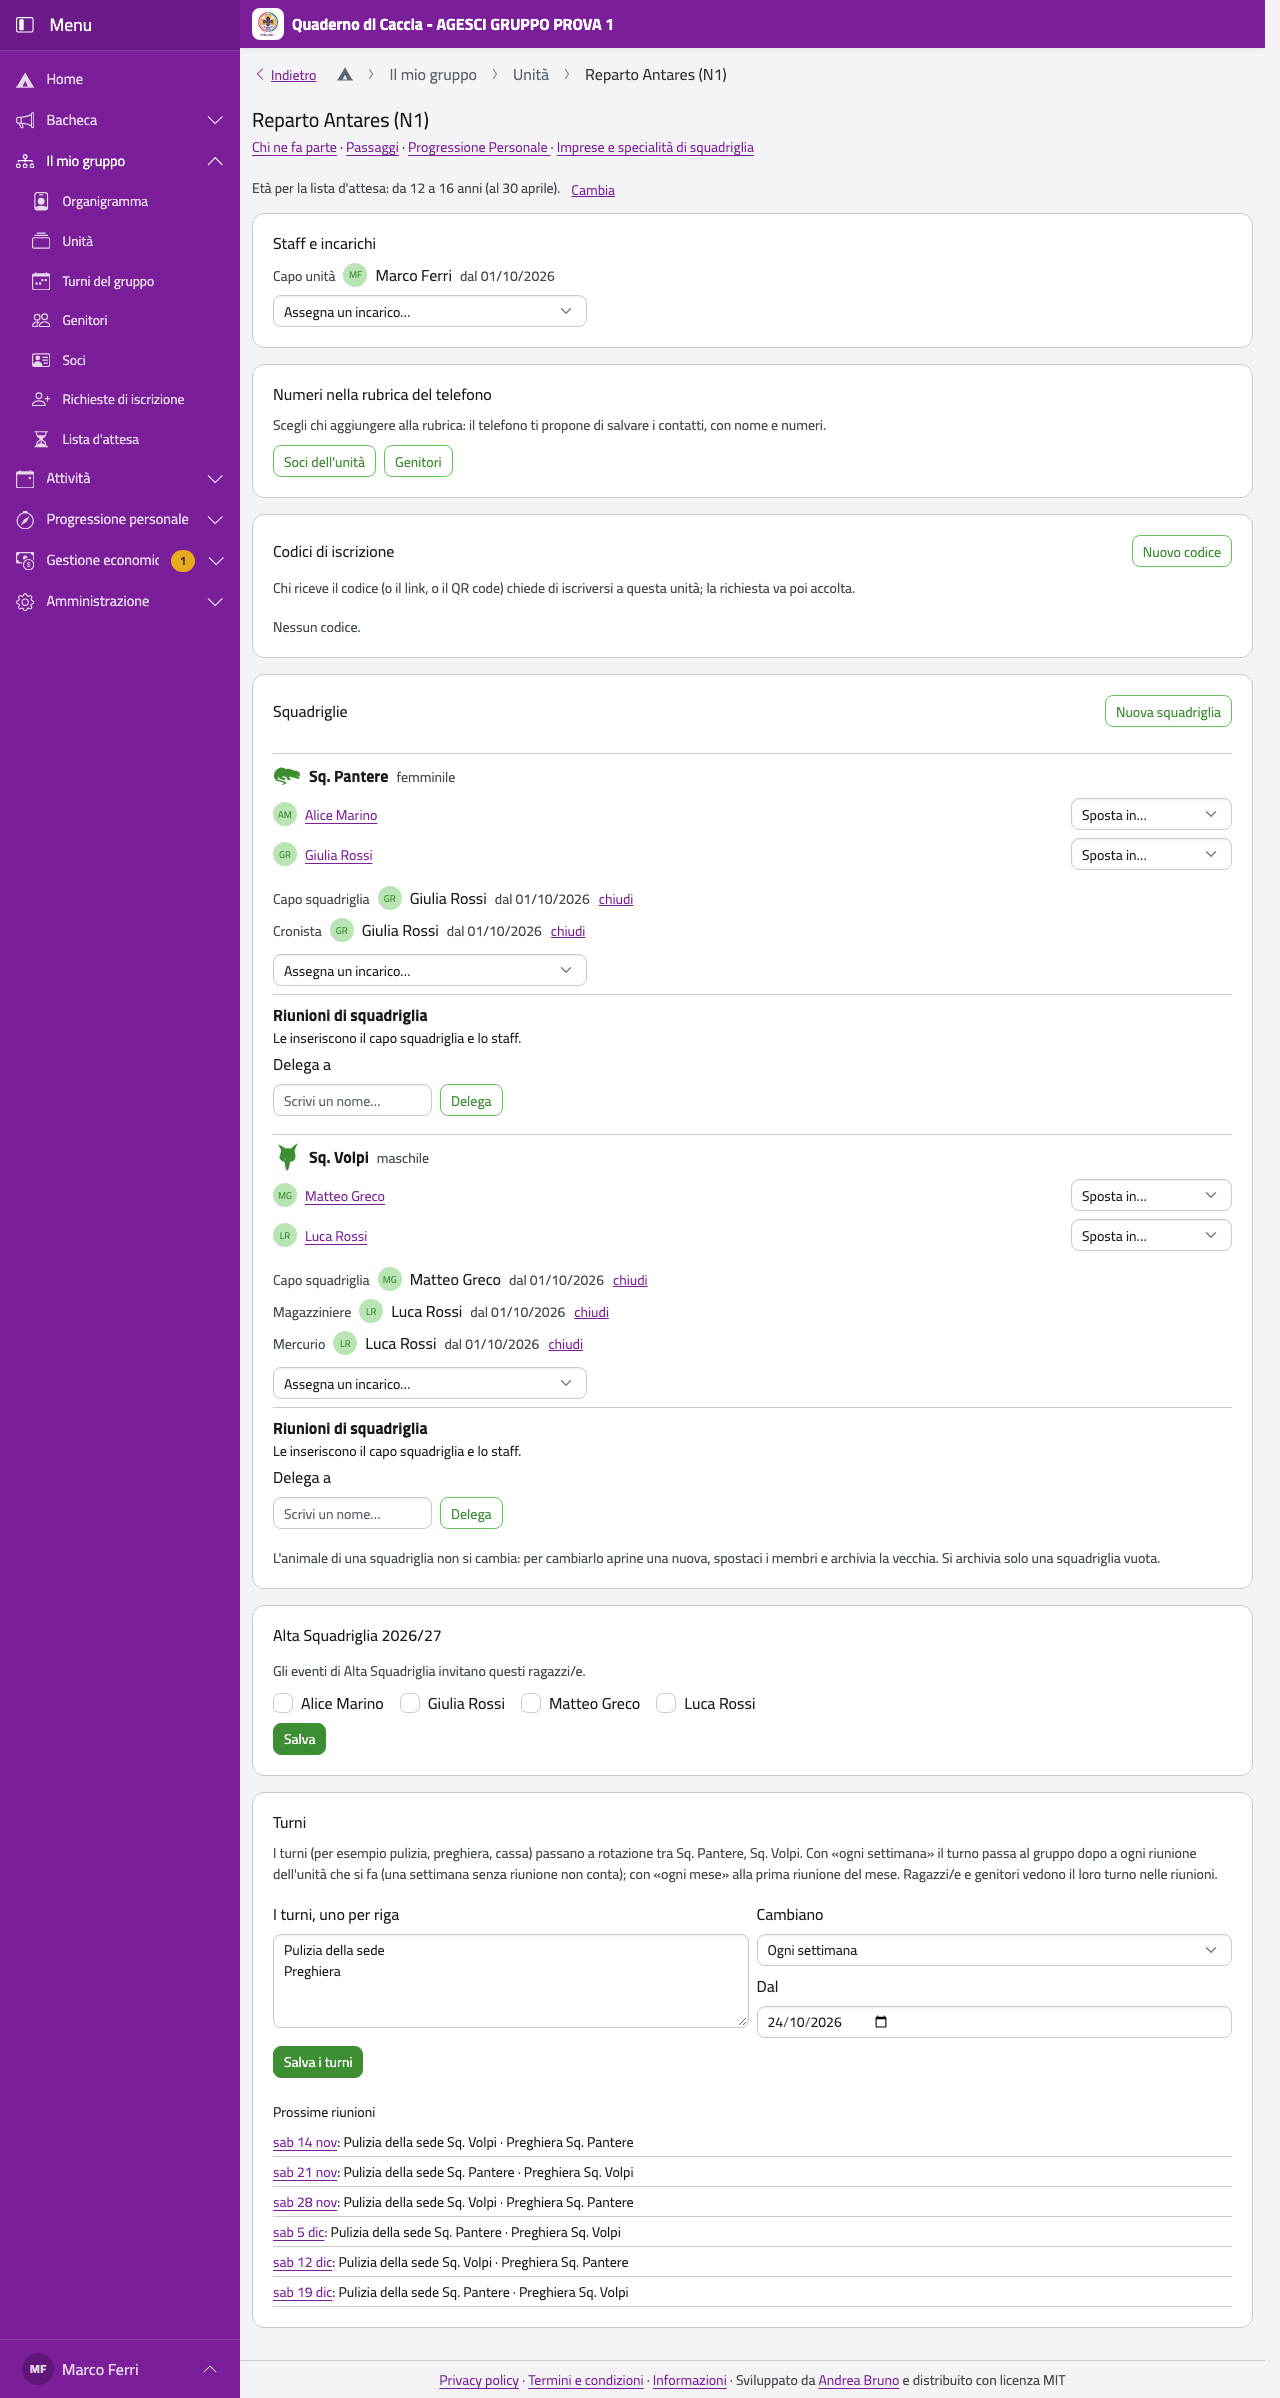
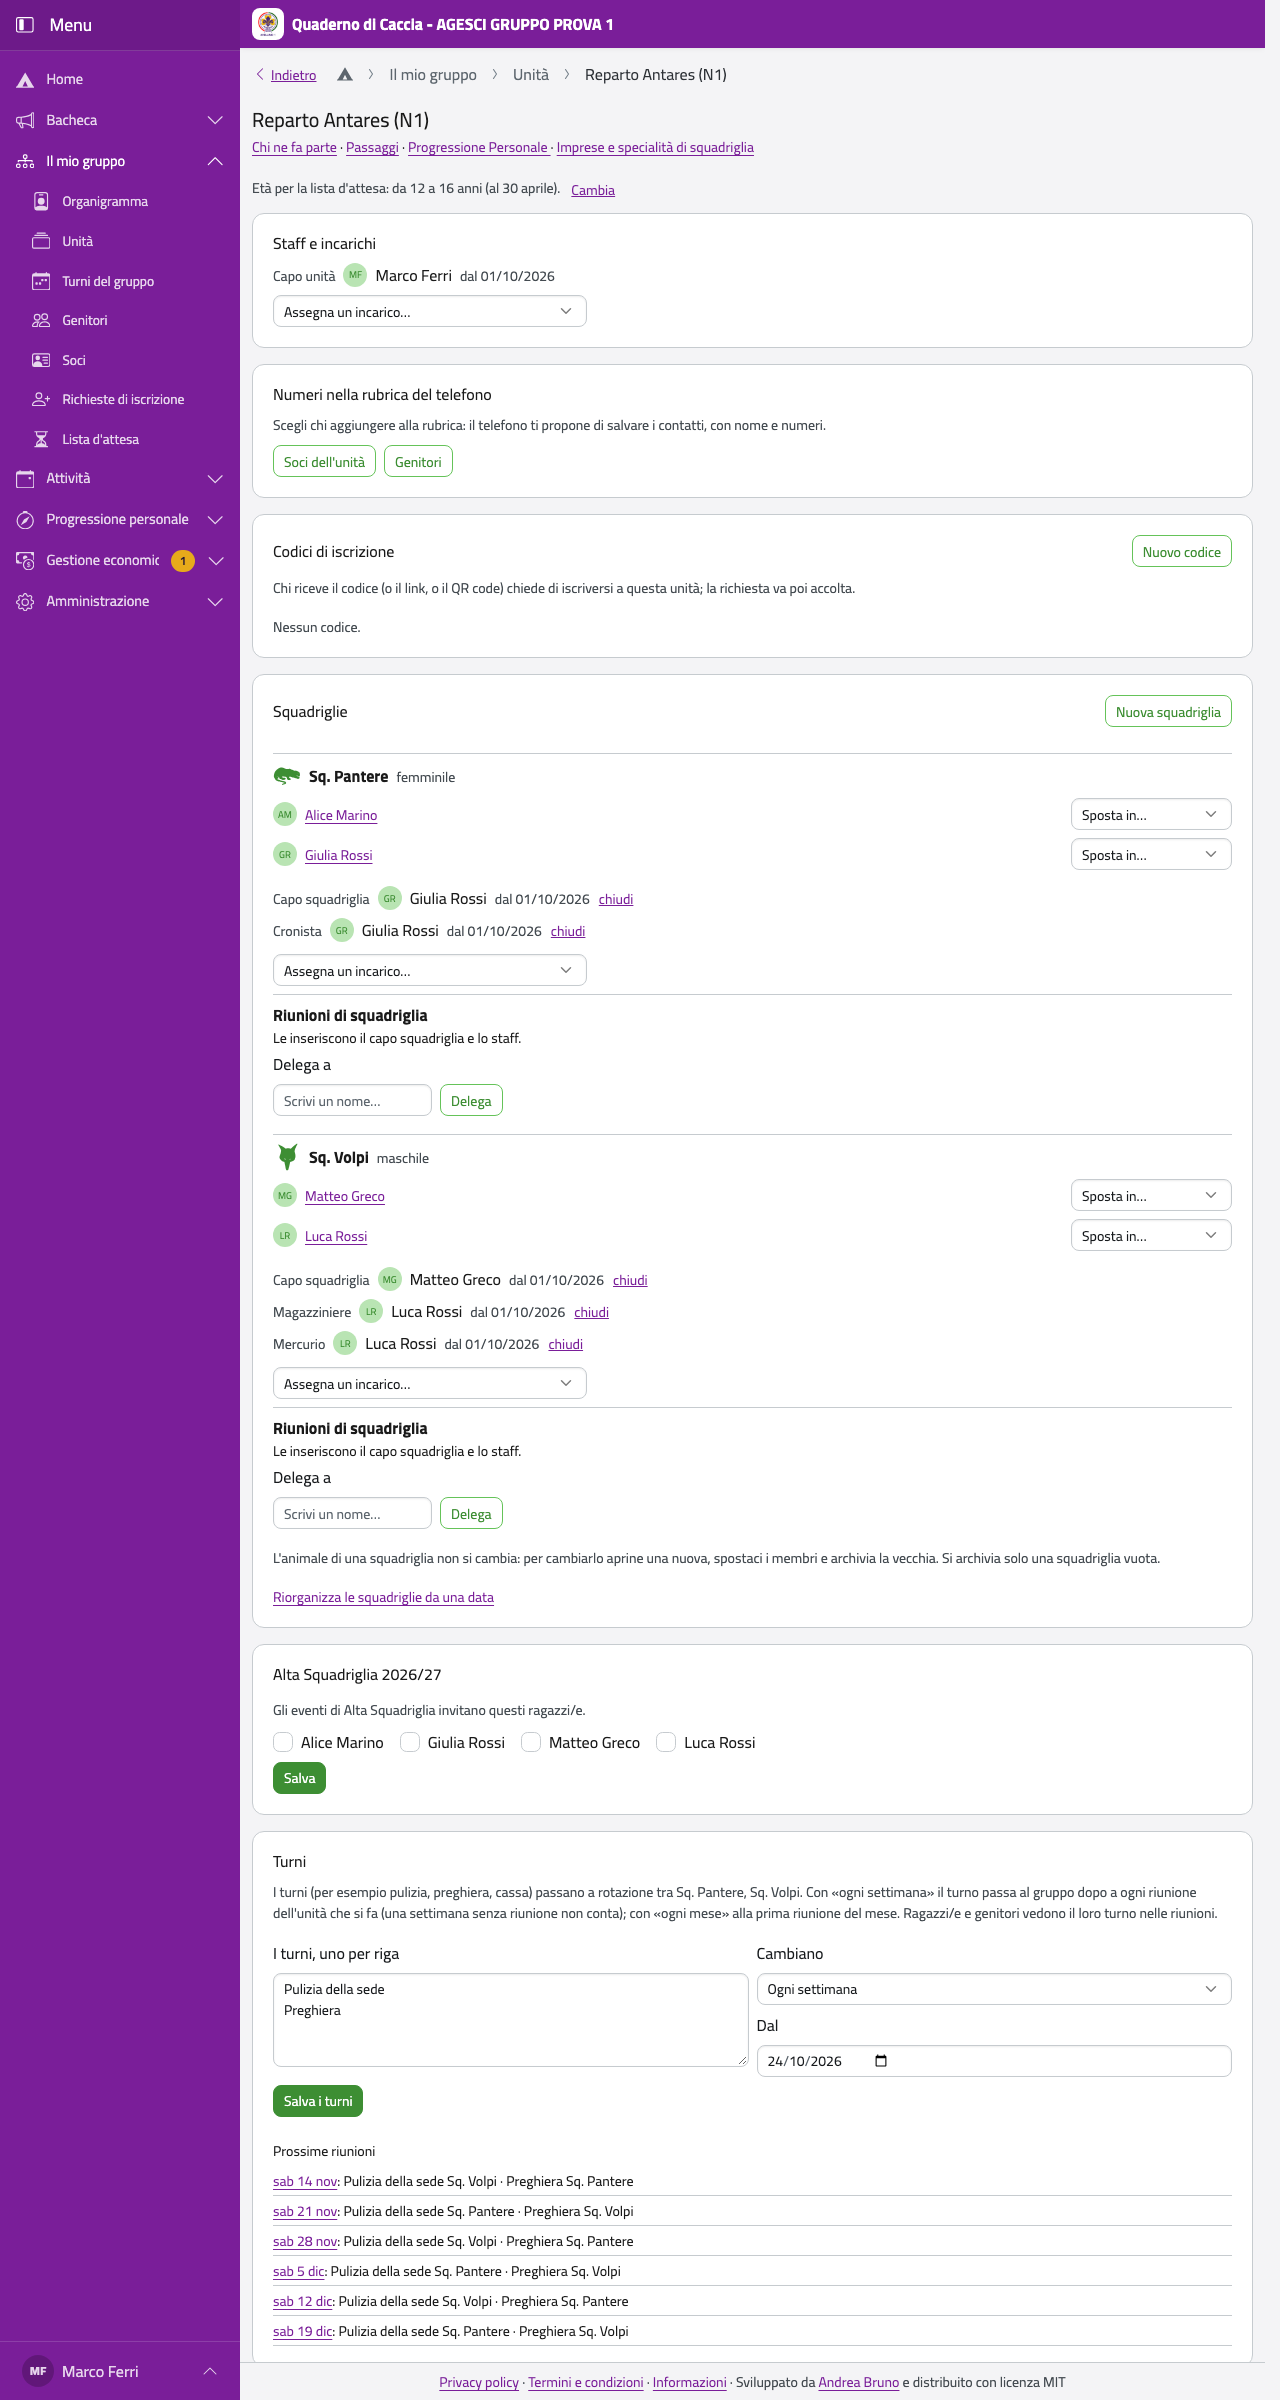
Version 1.30.0
Claude-Session: https://claude.ai/code/session_01FnZgpcJooBVEmvgDLvmkQq

diff --git a/CHANGELOG.md b/CHANGELOG.md
@@ -5,6 +5,34 @@ versione installata e quella nuova prima di chiedere se aggiornare. Il dettaglio
 versione, con il manuale in PDF, è nella pagina
 [Releases](https://github.com/AGESCI-Avellino-1/quaderno-di-caccia/releases).
 
+## 1.30.0 — 14 novembre 2026
+
+### Novità
+
+**Riorganizzazione delle squadriglie da una data** ([#75](https://github.com/AGESCI-Avellino-1/quaderno-di-caccia/issues/75)): dalla pagina del reparto, **Riorganizza le squadriglie da una data** prepara una bozza di come saranno le squadriglie, per esempio dall'apertura, senza toccare quelle di oggi: squadriglie nuove, spostamenti (anche nel reparto collegato, nel rispetto dei sessi), capo e vice di ogni squadriglia. **Da controllare** dice cosa è cambiato nel frattempo. Dal giorno scelto uno dello staff, o un capogruppo, la applica: gli spostamenti valgono da quel giorno, cambiano capi e vice, le squadriglie rimaste vuote vengono archiviate. Un'applicazione per errore si annulla, finché nessuno ha cambiato squadriglie, membri o incarichi. Lo staff può mostrarla ai futuri capi squadriglia, che la leggono in **Le squadriglie future**.
+
+**Squadriglia senza animale, lo sceglie il capo squadriglia** ([#73](https://github.com/AGESCI-Avellino-1/quaderno-di-caccia/issues/73)): una squadriglia nuova si può creare senza animale: si chiama «Nuova Squadriglia 1» finché il suo capo squadriglia non sceglie l'animale da **La mia squadriglia**, una volta sola. Lo staff riceve un'email e una notifica e, se c'è un errore, lo corregge entro un mese.
+
+### Correzioni
+
+**Notifiche** ([#74](https://github.com/AGESCI-Avellino-1/quaderno-di-caccia/issues/74)): toccando una notifica con l'app aperta in background, dopo lo sblocco con PIN o Face ID si va alla pagina della notifica e non più all'ultima pagina vista.
+
+**Pagina Informazioni** ([#76](https://github.com/AGESCI-Avellino-1/quaderno-di-caccia/issues/76)): su iPhone con iOS 26 o successivo mostrava una versione di iOS sbagliata (per esempio 18.7 invece di 27.2).
+
+### Aggiornare
+
+```bash
+scripts/aggiorna.sh v1.30.0
+```
+
+L'aggiornamento migra il database; le squadriglie di oggi non cambiano.
+
+### Documentazione
+
+Il capitolo sull'unità spiega la riorganizzazione delle squadriglie e le squadriglie senza animale; quello del capo squadriglia la scelta dell'animale e le squadriglie future. Rifatta la schermata della pagina del reparto.
+
+Provata con i test; non ancora in un browser con dati veri né su un telefono vero (la correzione delle notifiche va provata su iPhone). Se qualcosa non va, segnalalo con una issue.
+
 ## 1.29.1 — 14 novembre 2026
 
 ### Correzioni

diff --git a/docs/installazione/installazione.md b/docs/installazione/installazione.md
@@ -5,12 +5,12 @@
 ```bash
 git clone https://github.com/AGESCI-Avellino-1/quaderno-di-caccia.git /srv/qdc
 cd /srv/qdc
-git checkout v1.29.1
+git checkout v1.30.0
 ```
 
 Installa sempre una **versione rilasciata**: le trovi, con il PDF del manuale d'uso, nella
 pagina [Releases](https://github.com/AGESCI-Avellino-1/quaderno-di-caccia/releases) del
-progetto; al posto di `v1.29.1` metti l'ultima. Il ramo `main` è quello di sviluppo e può
+progetto; al posto di `v1.30.0` metti l'ultima. Il ramo `main` è quello di sviluppo e può
 contenere lavori non ancora provati.
 
 Negli esempi l'installazione è in `/srv/qdc`: se scegli un'altra cartella, cambiala anche

diff --git a/TODO.md b/TODO.md
@@ -2,7 +2,7 @@
 
 Situazione delle [issue](https://github.com/AGESCI-Avellino-1/quaderno-di-caccia/issues) e delle
 [segnalazioni di sicurezza](https://github.com/AGESCI-Avellino-1/quaderno-di-caccia/security/advisories)
-su GitHub, aggiornata il 14/11/2026 (ultima versione: v1.29.1). Le cose ancora aperte del periodo di
+su GitHub, aggiornata il 14/11/2026 (ultima versione: v1.30.0). Le cose ancora aperte del periodo di
 sviluppo sono in [TODO_SVILUPPO.md](TODO_SVILUPPO.md).
 
 ## Aperte
